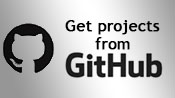
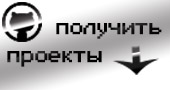
first2

diff --git a/src/components/App/App.scss b/src/components/App/App.scss
@@ -88,7 +88,7 @@
   }
 
   &__getFromGit {
-    background: url(/portfolio/img/visitki/get2.jpg);
+    background: url(/portfolio/img/visitki/get.jpg);
     width: 178px;
     background-size: 100%;
     box-shadow: 1px 1px 2px 1px rgba(0, 0, 0, 0.45);
